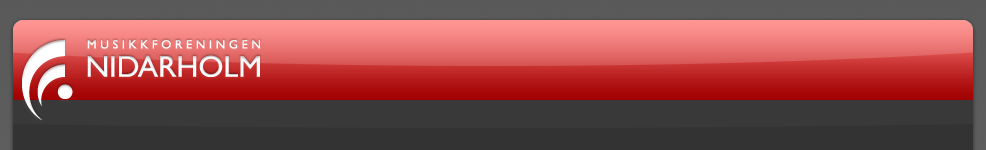
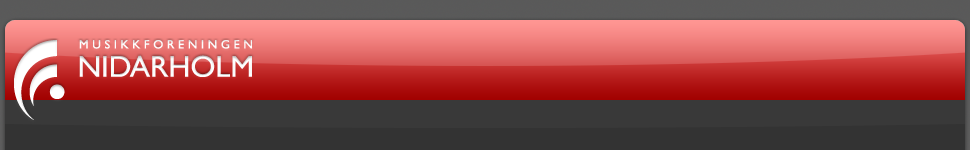
next try

Changed region(s): [[0.0, 0.1333, 0.2784, 1.0], [0.9588, 0.1333, 1.0, 1.0]]

diff --git a/media/s/stylesheet.css b/media/s/stylesheet.css
@@ -4,26 +4,27 @@ body {
     font-size: 13px;
     background-image: url(/m/i/top-bg.png);
     background-repeat: repeat-x;
-    background-color: #606060;
+    background-color: #666666;
 }
 
 div#top-bg {
     margin: 0 auto;
-    width: 986px;
+    width: 970px;
     background-image: url(/m/i/top.png);
     background-repeat: no-repeat;
 }
 div#middle-bg {
     margin: 0 auto;
-    width: 986px;
+    width: 970px;
     background-image: url(/m/i/middle.png);
     background-repeat: repeat-y;
 }
 div#bottom-bg {
     margin: 0 auto;
-    width: 986px;
+    width: 970px;
     background-image: url(/m/i/bottom.png);
     background-repeat: no-repeat;
+    padding-bottom: 10px;
 }
 a {
     text-decoration: none;
@@ -95,10 +96,12 @@ div#sidebar {
 div#content {
     width: 640px;
     padding: 0 10px 0 10px;
+    background-image: url(/m/i/content-bg.png);
+    background-repeat: repeat-x;
 }
 
 div#footer {
-    padding: 0 10px 10px 10px;
+    padding: 5px 10px 0 10px;
 }
 
 div#bottom div.footerbox {
